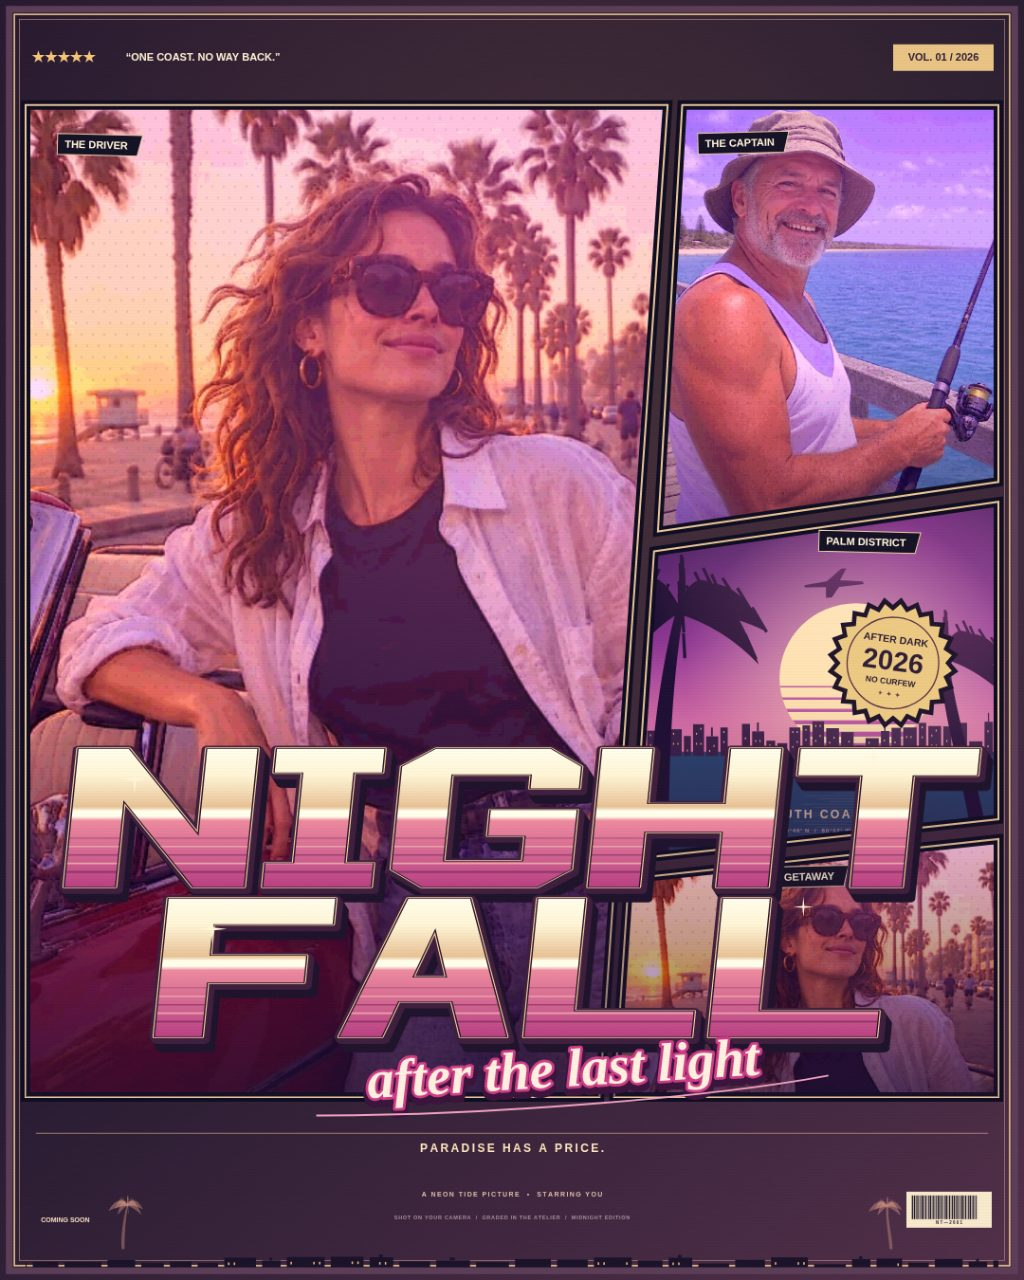
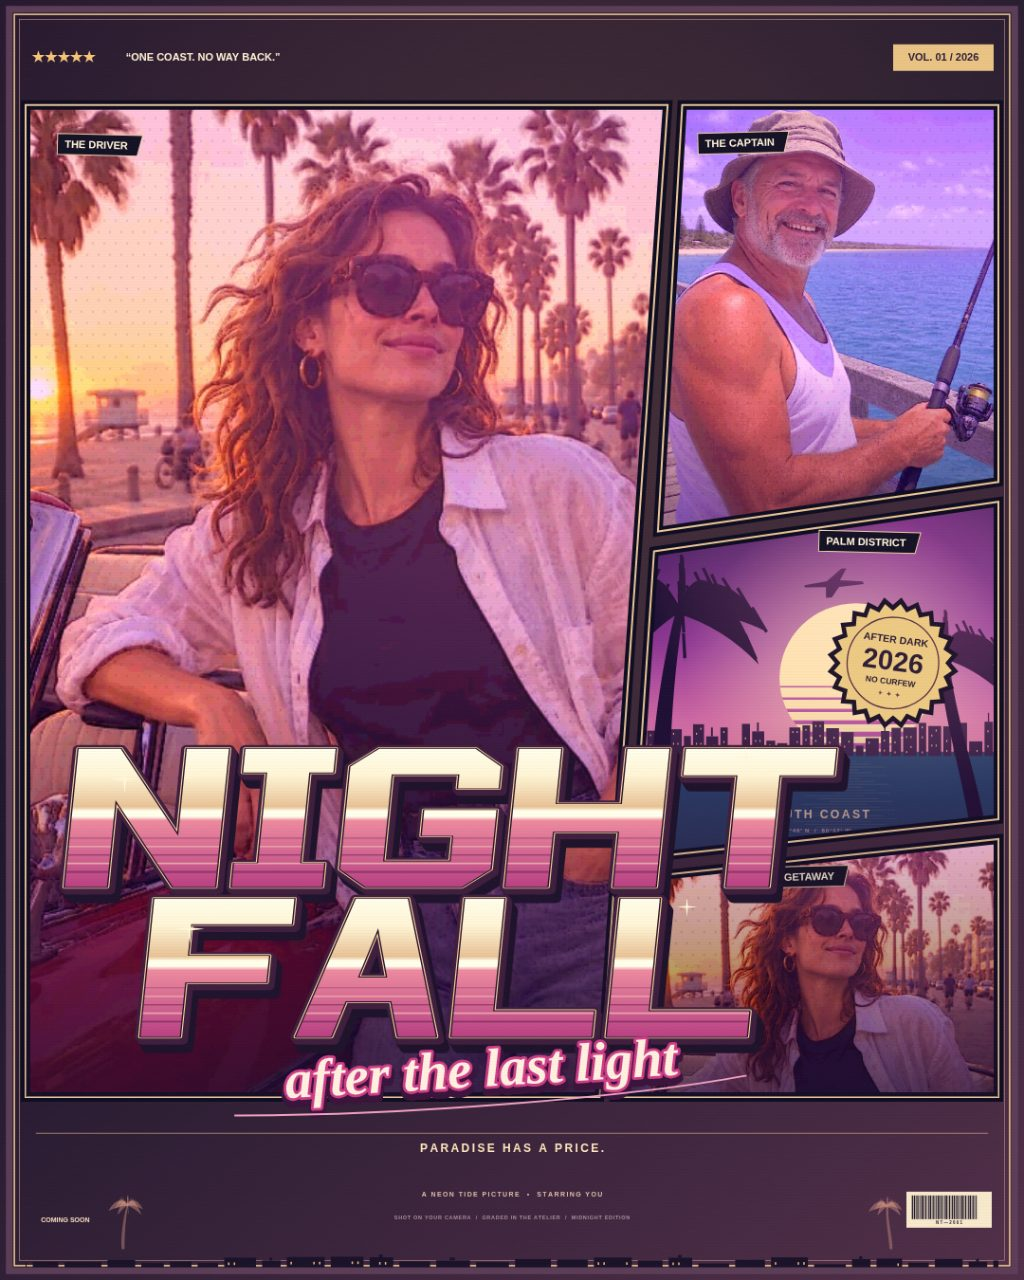
Refine title balance and seal spacing

Changed region(s): [[0.0938, 0.5625, 0.875, 0.875], [0.8125, 0.5625, 0.9688, 0.7188]]

diff --git a/app/src/art.js b/app/src/art.js
@@ -515,17 +515,18 @@ export function renderPoster(canvas, state, photos, options = {}) {
   const flattened=titleLines.join(' ');
   const total=flattened.length;
   const singleLine=wide && total<19;
-  const titleWidth=width*(wide?.76:.88);
+  const titleWidth=width*(wide?.68:.74);
+  const titleCenter=width*(wide?.47:.44);
   if(singleLine) {
     const th=height*(total>12?.155:.175);
-    drawOriginalChromeTitle(ctx,flattened,width*.51,height*.585,titleWidth,th,state.finish);
-    paintBrushSubtitle(ctx,state.subtitle||'one last summer',width*.56,height*.755,height*.058,width*.62);
+    drawOriginalChromeTitle(ctx,flattened,titleCenter,height*.585,titleWidth,th,state.finish);
+    paintBrushSubtitle(ctx,state.subtitle||'one last summer',width*.50,height*.755,height*.058,width*.62);
   } else {
     const rows=titleLines.length;
     const th=height*(rows===1?.145:.108);
     const firstY=height*(rows===1?.675:.585);
-    titleLines.forEach((line,index)=>drawOriginalChromeTitle(ctx,line,width*.51,firstY+index*(th+height*.009),Math.min(titleWidth,titleWidth*(line.length/(Math.max(...titleLines.map(t=>t.length))))),th,state.finish));
-    paintBrushSubtitle(ctx,state.subtitle||'one last summer',width*.55,height*.838,height*.042,width*.76);
+    titleLines.forEach((line,index)=>drawOriginalChromeTitle(ctx,line,titleCenter,firstY+index*(th+height*.009),Math.min(titleWidth,titleWidth*(line.length/(Math.max(...titleLines.map(t=>t.length))))),th,state.finish));
+    paintBrushSubtitle(ctx,state.subtitle||'one last summer',width*.47,height*.838,height*.042,width*.76);
   }
   seal(ctx,width*(wide?.896:.872),height*(wide?.515:.518),height*(wide?.074:.049),state.year);
   const footerY=height*.895;
